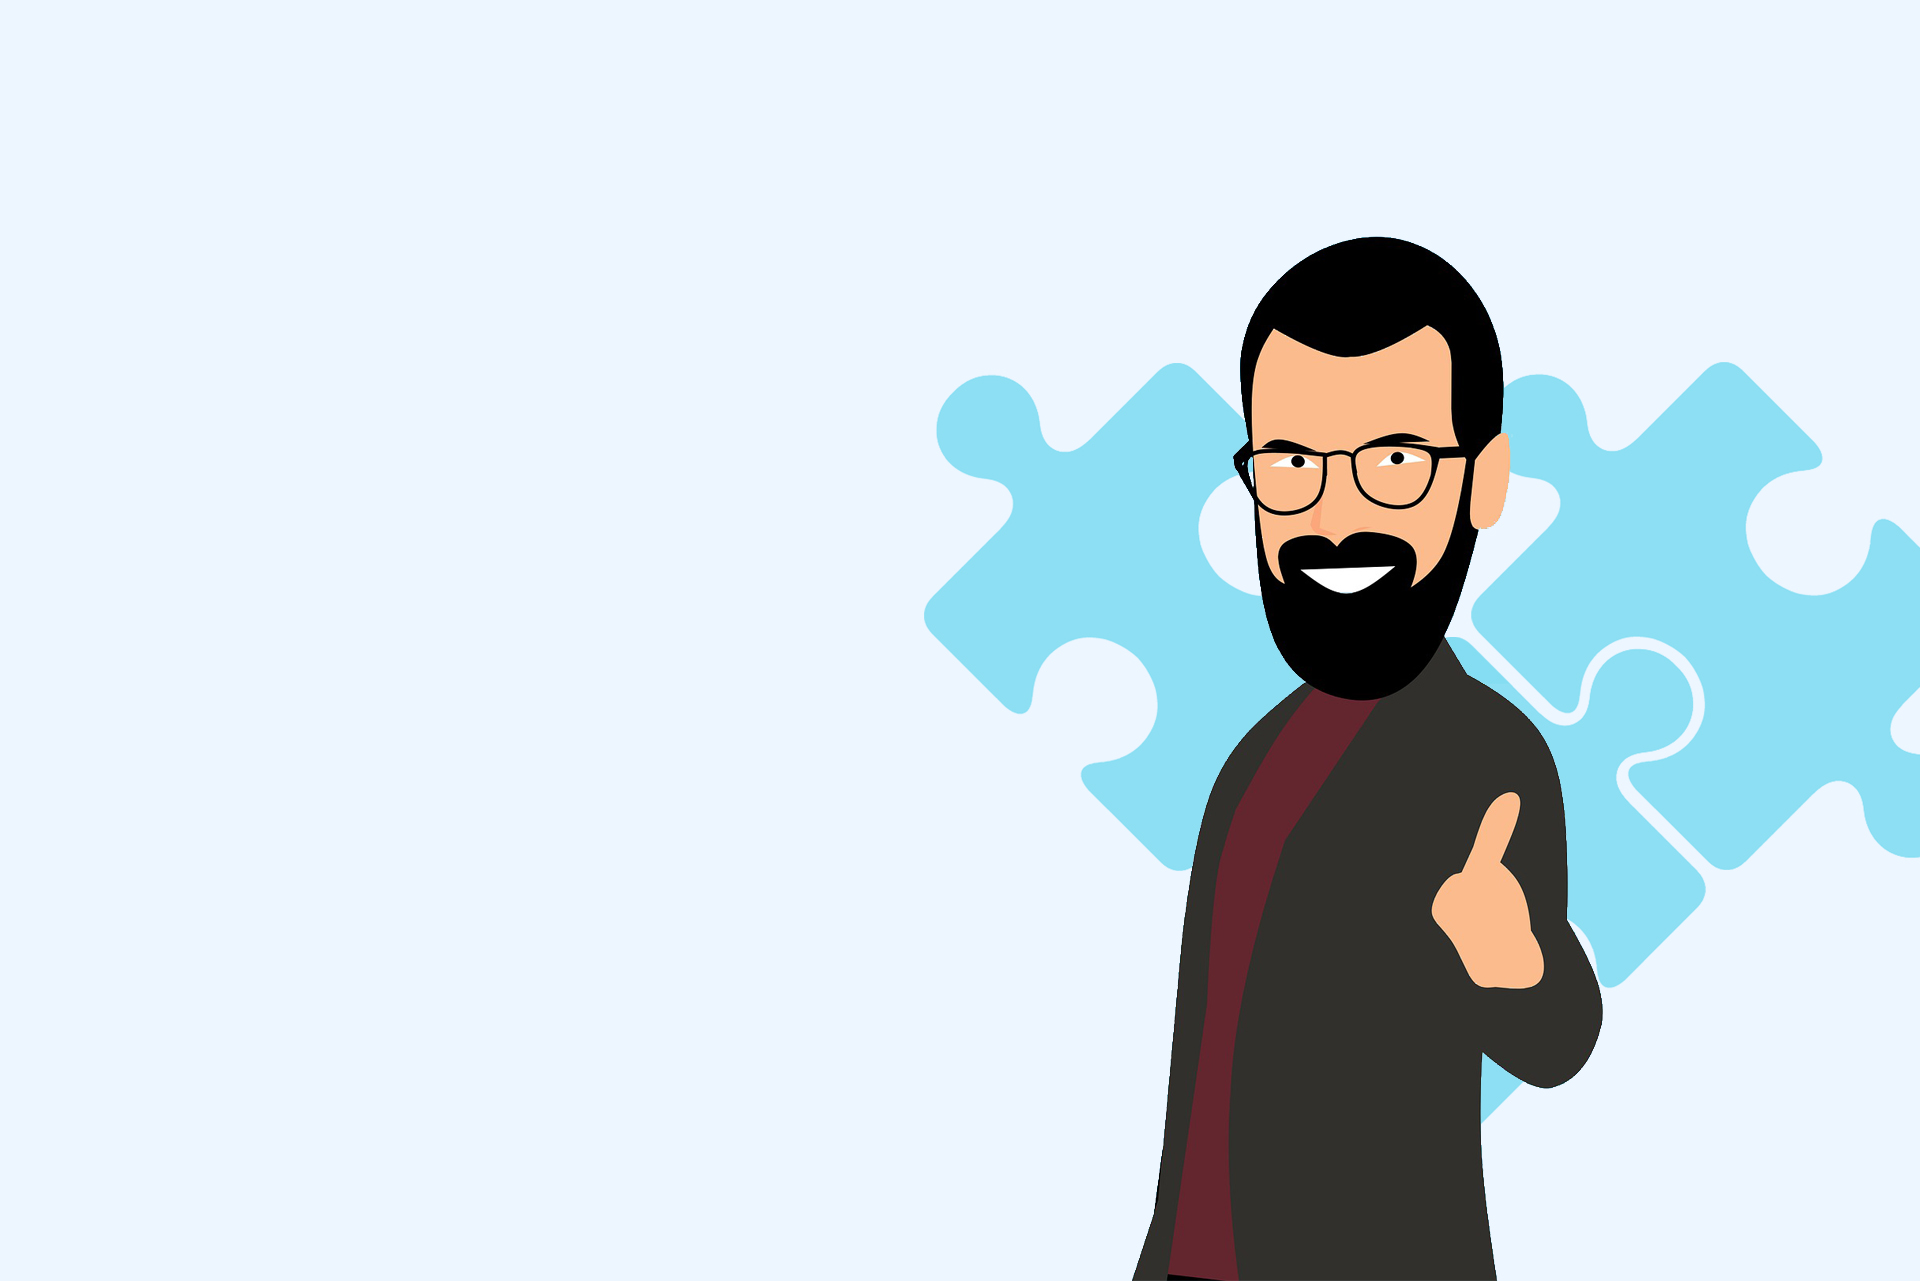
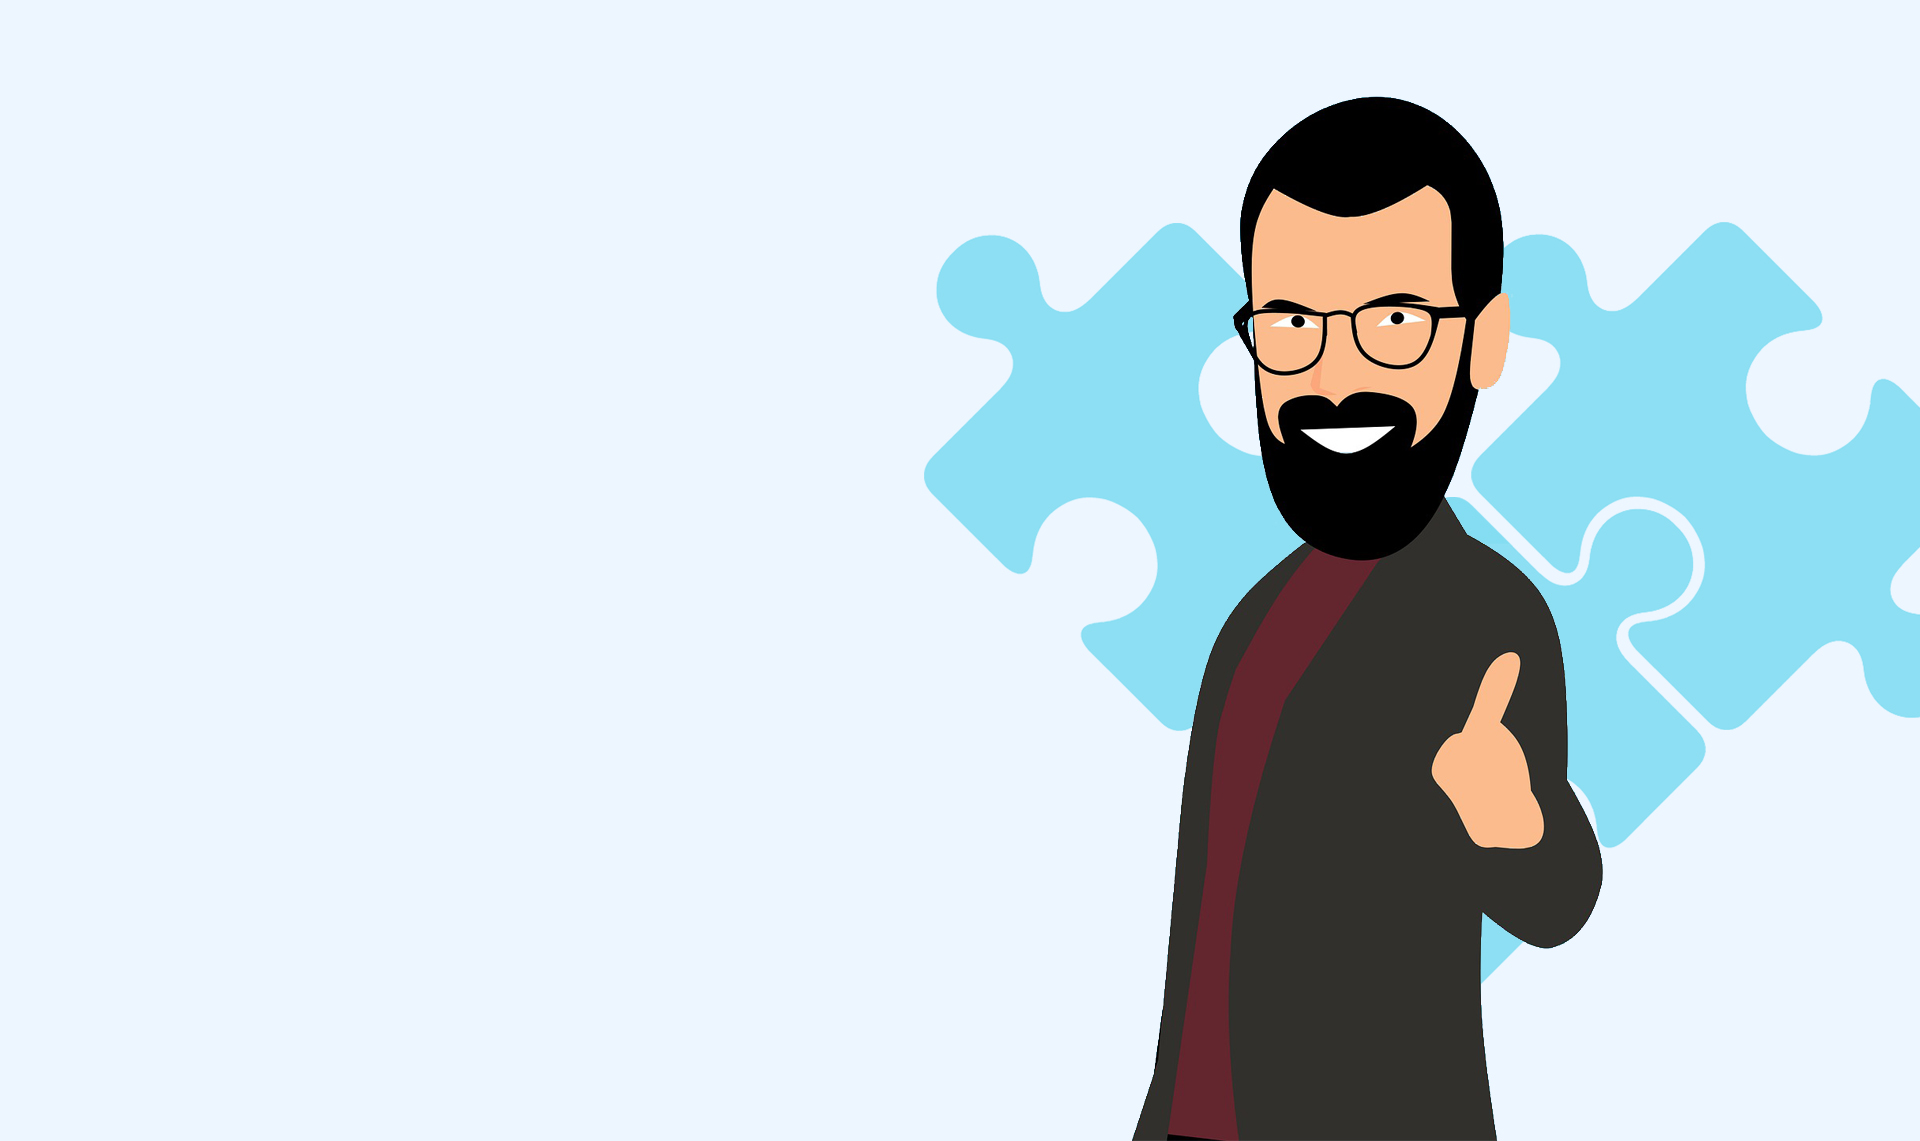
homepage updated again

Changed region(s): [[0.4688, 0.0613, 1.0, 0.8589], [0.75, 0.8589, 0.7812, 0.8896]]

diff --git a/SalesInMove/SalesInMove/ClientApp/src/components/LoginForm/LoginForm.jsx b/SalesInMove/SalesInMove/ClientApp/src/components/LoginForm/LoginForm.jsx
@@ -1,34 +1,39 @@
-import React from "react";
-import Avatar from "@material-ui/core/Avatar";
-import Button from "@material-ui/core/Button";
-import CssBaseline from "@material-ui/core/CssBaseline";
-import TextField from "@material-ui/core/TextField";
-import FormControlLabel from "@material-ui/core/FormControlLabel";
-import Checkbox from "@material-ui/core/Checkbox";
-import Link from "@material-ui/core/Link";
-import Grid from "@material-ui/core/Grid";
-import LockOutlinedIcon from "@material-ui/icons/LockOutlined";
-import Typography from "@material-ui/core/Typography";
-import { makeStyles } from "@material-ui/core/styles";
-import Container from "@material-ui/core/Container";
+import React from 'react';
+import Avatar from '@material-ui/core/Avatar';
+import Button from '@material-ui/core/Button';
+import CssBaseline from '@material-ui/core/CssBaseline';
+import TextField from '@material-ui/core/TextField';
+import FormControlLabel from '@material-ui/core/FormControlLabel';
+import Checkbox from '@material-ui/core/Checkbox';
+import Link from '@material-ui/core/Link';
+import Grid from '@material-ui/core/Grid';
+import LockOutlinedIcon from '@material-ui/icons/LockOutlined';
+import Typography from '@material-ui/core/Typography';
+import { makeStyles } from '@material-ui/core/styles';
+import Container from '@material-ui/core/Container';
 
 const useStyles = makeStyles((theme) => ({
   paper: {
     marginTop: theme.spacing(8),
-    display: "flex",
-    flexDirection: "column",
-    alignItems: "center",
+    display: 'flex',
+    flexDirection: 'column',
+    alignItems: 'center',
   },
   avatar: {
     margin: theme.spacing(1),
     backgroundColor: theme.palette.secondary.main,
   },
   form: {
-    width: "100%", // Fix IE 11 issue.
-    marginTop: theme.spacing(1),
+    width: '100%', // Fix IE 11 issue.
   },
   submit: {
     margin: theme.spacing(3, 0, 2),
+  },
+  mainContainer: {
+    display: 'flex',
+    alignItems: 'center',
+    justifyContent: 'center',
+    height: '80vh',
   },
 }));
 
@@ -36,60 +41,60 @@ export function LoginForm() {
   const classes = useStyles();
 
   return (
-    <Container component="main" maxWidth="xs">
+    <Container component='main' maxWidth='xs' className={classes.mainContainer}>
       <CssBaseline />
       <div className={classes.paper}>
         <Avatar className={classes.avatar}>
           <LockOutlinedIcon />
         </Avatar>
-        <Typography component="h1" variant="h5">
+        <Typography component='h1' variant='h5'>
           Bejelentkezés
         </Typography>
         <form className={classes.form} noValidate>
           <TextField
-            variant="outlined"
-            margin="normal"
+            variant='outlined'
+            margin='normal'
             required
             fullWidth
-            id="email"
-            label="Email cím"
-            name="email"
-            autoComplete="email"
+            id='email'
+            label='Email cím'
+            name='email'
+            autoComplete='email'
             autoFocus
           />
           <TextField
-            variant="outlined"
-            margin="normal"
+            variant='outlined'
+            margin='normal'
             required
             fullWidth
-            name="password"
-            label="Jelszó"
-            type="password"
-            id="password"
-            autoComplete="current-password"
+            name='password'
+            label='Jelszó'
+            type='password'
+            id='password'
+            autoComplete='current-password'
           />
           <FormControlLabel
-            control={<Checkbox value="remember" color="primary" />}
-            label="Emlékezz rám"
+            control={<Checkbox value='remember' color='primary' />}
+            label='Emlékezz rám'
           />
           <Button
-            type="submit"
+            type='submit'
             fullWidth
-            variant="contained"
-            color="primary"
+            variant='contained'
+            color='primary'
             className={classes.submit}
           >
             Bejelentkezés
           </Button>
           <Grid container>
             <Grid item xs>
-              <Link href="#" variant="body2">
+              <Link href='#' variant='body2'>
                 Elfelejtett jelszó
               </Link>
             </Grid>
             <Grid item>
-              <Link href="/regisztracio" variant="body2">
-                {"Nincs fiókod? Regisztrálj"}
+              <Link href='/regisztracio' variant='body2'>
+                {'Nincs fiókod? Regisztrálj'}
               </Link>
             </Grid>
           </Grid>

diff --git a/SalesInMove/SalesInMove/ClientApp/src/App.js b/SalesInMove/SalesInMove/ClientApp/src/App.js
@@ -9,56 +9,26 @@ import { RegistrationEmployee } from './pages/registration/registration-employee
 import { LoginPage } from './pages/login/login';
 import { StickyFooter } from './components/StickyFooter';
 import { AppBar } from './components/AppBar';
-import Grid from '@material-ui/core/Grid';
-import { makeStyles } from '@material-ui/core/styles';
-import Image from './images/homepageBg.jpg';
-
-const useStyles = makeStyles((theme) => ({
-  mainGridItem: {
-    backgroundImage: `url(${Image})`,
-    backgroundSize: 'cover',
-  },
-  fullWidthContainerMain: {
-    marginLeft: '100px',
-    marginTop: '150px',
-  },
-}));
 
 const App = () => {
-  const classes = useStyles();
   return (
-    <Grid
-      container
-      direction='row'
-      spacing={1}
-      className={classes.mainGridItem}
-    >
-      <Grid xs={12}>
-        <AppBar />
-      </Grid>
-      <Grid xs={12}>
-        <Container maxWidth='xl' className={classes.fullWidthContainerMain}>
-          <Box my={4}>
-            <Route exact path='/' component={HomePage} />
-            <Route exact path='/regisztracio' component={RegistrationMain} />
-            <Route
-              exact
-              path='/regisztracio/munkaltato'
-              component={RegistrationEmployer}
-            />
-            <Route
-              exact
-              path='/regisztracio/munkavallalo'
-              component={RegistrationEmployee}
-            />
-            <Route exact path='/bejelentkezes' component={LoginPage} />
-          </Box>
-        </Container>
-      </Grid>
-      <Grid xs={12}>
-        <StickyFooter />
-      </Grid>
-    </Grid>
+    <>
+      <AppBar />
+      <Route exact path='/' component={HomePage} />
+      <Route exact path='/regisztracio' component={RegistrationMain} />
+      <Route
+        exact
+        path='/regisztracio/munkaltato'
+        component={RegistrationEmployer}
+      />
+      <Route
+        exact
+        path='/regisztracio/munkavallalo'
+        component={RegistrationEmployee}
+      />
+      <Route exact path='/bejelentkezes' component={LoginPage} />
+      <StickyFooter />
+    </>
   );
 };
 

diff --git a/SalesInMove/SalesInMove/ClientApp/src/components/HomeMainSection/HomeMainSection.jsx b/SalesInMove/SalesInMove/ClientApp/src/components/HomeMainSection/HomeMainSection.jsx
@@ -9,6 +9,7 @@ import Button from '@material-ui/core/Button';
 import Grid from '@material-ui/core/Grid';
 import Typography from '@material-ui/core/Typography';
 import { makeStyles } from '@material-ui/core/styles';
+import ImageBg from '../../images/homepageBg.jpg';
 
 const useStyles = makeStyles((theme) => ({
   mainh1Text: {
@@ -23,15 +24,33 @@ const useStyles = makeStyles((theme) => ({
   },
   jobSearchBtn: {
     marginRight: '30px',
+    fontSize: '20px',
+  },
+  mainGridContainer: {
+    backgroundImage: `url(${ImageBg})`,
+    backgroundSize: 'cover',
+    display: 'flex',
+    justifyContent: 'center',
+    padding: '36px',
+    minHeight: '100vh',
+  },
+  empSearchBtn: {
+    fontSize: '20px',
+    color: 'white',
   },
 }));
 
 export const HomeMainSection = () => {
   const classes = useStyles();
   return (
-    <Grid container direction='column' spacing={1}>
-      <Grid container item xs={12}>
-        <Grid item item xs={5}>
+    <Grid
+      container
+      direction='column'
+      spacing={1}
+      className={classes.mainGridContainer}
+    >
+      <Grid container item xs={6}>
+        <Container item item xs={5}>
           <Container component='div'>
             <TextContainer>
               <Typography
@@ -56,10 +75,10 @@ export const HomeMainSection = () => {
               </Typography>
             </TextContainer>
           </Container>
-        </Grid>
+        </Container>
         <Grid xs={7}></Grid>
       </Grid>
-      <Grid container xs={5}>
+      <Grid container xs={6}>
         <Grid item className={classes.buttonContainer}>
           <Button
             variant='contained'
@@ -68,7 +87,11 @@ export const HomeMainSection = () => {
           >
             Munkát keresek !
           </Button>
-          <Button variant='contained' color='secondary'>
+          <Button
+            variant='contained'
+            color='secondary'
+            className={classes.empSearchBtn}
+          >
             Munkát kínálok !
           </Button>
         </Grid>

diff --git a/SalesInMove/SalesInMove/ClientApp/src/components/StickyFooter/StickyFooter.jsx b/SalesInMove/SalesInMove/ClientApp/src/components/StickyFooter/StickyFooter.jsx
@@ -1,28 +1,25 @@
-import React from "react";
-import Typography from "@material-ui/core/Typography";
-import { makeStyles } from "@material-ui/core/styles";
-import Container from "@material-ui/core/Container";
-import { Copyright } from "../Copyright";
+import React from 'react';
+import Typography from '@material-ui/core/Typography';
+import { makeStyles } from '@material-ui/core/styles';
+import Container from '@material-ui/core/Container';
+import { Copyright } from '../Copyright';
 
 const useStyles = makeStyles((theme) => ({
   root: {
-    display: "flex",
-    flexDirection: "column",
+    display: 'flex',
+    flexDirection: 'column',
   },
   main: {
     marginTop: theme.spacing(8),
     marginBottom: theme.spacing(2),
   },
   footer: {
-    position: "relative",
+    position: 'relative',
     bottom: 0,
-    width: "100%",
+    width: '100%',
     padding: theme.spacing(3, 2),
-    marginTop: "auto",
-    backgroundColor:
-      theme.palette.type === "light"
-        ? theme.palette.grey[200]
-        : theme.palette.grey[800],
+    marginTop: 'auto',
+    backgroundColor: 'white',
   },
 }));
 
@@ -32,8 +29,8 @@ export const StickyFooter = () => {
   return (
     <div className={classes.root}>
       <footer className={classes.footer}>
-        <Container maxWidth="md">
-          <Typography variant="body1">
+        <Container maxWidth='md'>
+          <Typography variant='body1'>
             My sticky footer can be found here.
           </Typography>
           <Copyright />

diff --git a/SalesInMove/SalesInMove/ClientApp/src/styles/global-styles.js b/SalesInMove/SalesInMove/ClientApp/src/styles/global-styles.js
@@ -1,4 +1,4 @@
-import { createGlobalStyle } from "styled-components";
+import { createGlobalStyle } from 'styled-components';
 
 export const GlobalStyle = createGlobalStyle`
   * {
